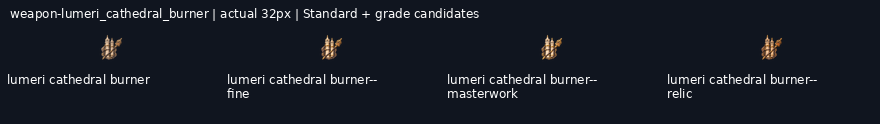
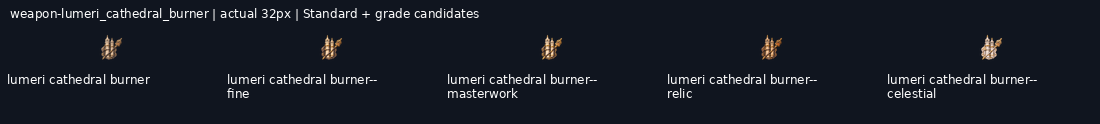
art: draw weapon-lumeri_cathedral_burner--celestial grade candidate

diff --git a/art/_archive/gear/2026-11-19-kept-blade-grades/HANDOFF.md b/art/_archive/gear/2026-11-19-kept-blade-grades/HANDOFF.md
@@ -1,6 +1,6 @@
 # Gear grade candidates
 
-**208/260 grade candidates delivered** on `art/2026-11-19-kept-blade-grades`. Shared mailbox: https://github.com/leonpentastorm/Project-Heaven-Cry/issues/3 . See claim.json for this lane’s current Standards. Released overlapping blades reuse12 peer candidates, with3 local alternatives archived.
+**209/260 grade candidates delivered** on `art/2026-11-19-kept-blade-grades`. Shared mailbox: https://github.com/leonpentastorm/Project-Heaven-Cry/issues/3 . See claim.json for this lane’s current Standards. Released overlapping blades reuse12 peer candidates, with3 local alternatives archived.
 
 Leon requested continuous candidate production; proof approval is not fabricated. All candidates remain review-candidate, production_approved:false, implementation_ready:false, with outline.review_required:true. Exact outline is measured, never asserted unless the masks match. Per-image registration is uniform scaling/translation only, without warp, silhouette masks, filled pixels or code-drawn substitutes. The generated native remains untouched.
 
@@ -10,12 +10,12 @@ Tomorrow: fetch this branch and develop safely, read the latest issue 3 comments
 
 Peer audit: [coordination/peer-audit-2026-11-19.md](coordination/peer-audit-2026-11-19.md). Peer58 masters/232 exports and12 canonical imports are integrated with versioned alpha<8 cleanup; originals are retained. See coordination/peer-import-v2/manifest.json and post-catalog VALIDATION.json (strict margins pass, solid alpha unchanged). Peer quota resets20 November2026 at09:45:39 Bangkok time; this does not establish this session’s quota.
 
-Remaining: weapon-ork_machete--masterwork, weapon-ork_machete--relic, weapon-ork_machete--celestial, weapon-war_axe--fine, weapon-war_axe--masterwork, weapon-war_axe--relic, weapon-war_axe--celestial, weapon-parlour_pistol--fine, weapon-parlour_pistol--masterwork, weapon-parlour_pistol--relic, weapon-parlour_pistol--celestial, weapon-lever_carbine--fine, weapon-lever_carbine--masterwork, weapon-lever_carbine--relic, weapon-lever_carbine--celestial, weapon-sawn_off--fine, weapon-sawn_off--masterwork, weapon-sawn_off--relic, weapon-sawn_off--celestial, weapon-coach_gun--fine, weapon-coach_gun--masterwork, weapon-coach_gun--relic, weapon-coach_gun--celestial, weapon-legion_bullpup--fine, weapon-legion_bullpup--masterwork, weapon-legion_bullpup--relic, weapon-legion_bullpup--celestial, weapon-whisper_smg--fine, weapon-whisper_smg--masterwork, weapon-whisper_smg--relic, weapon-whisper_smg--celestial, weapon-war_pick--fine, weapon-war_pick--masterwork, weapon-war_pick--relic, weapon-war_pick--celestial, weapon-war_hammer--fine, weapon-war_hammer--masterwork, weapon-war_hammer--relic, weapon-war_hammer--celestial, weapon-short_bow--fine, weapon-short_bow--masterwork, weapon-short_bow--relic, weapon-short_bow--celestial, weapon-lumeri_cathedral_burner--celestial, weapon-whisper_pistol--fine, weapon-whisper_pistol--masterwork, weapon-whisper_pistol--relic, weapon-whisper_pistol--celestial, weapon-whisper_carbine--fine, weapon-whisper_carbine--masterwork, weapon-whisper_carbine--relic, weapon-whisper_carbine--celestial.
+Remaining: weapon-ork_machete--masterwork, weapon-ork_machete--relic, weapon-ork_machete--celestial, weapon-war_axe--fine, weapon-war_axe--masterwork, weapon-war_axe--relic, weapon-war_axe--celestial, weapon-parlour_pistol--fine, weapon-parlour_pistol--masterwork, weapon-parlour_pistol--relic, weapon-parlour_pistol--celestial, weapon-lever_carbine--fine, weapon-lever_carbine--masterwork, weapon-lever_carbine--relic, weapon-lever_carbine--celestial, weapon-sawn_off--fine, weapon-sawn_off--masterwork, weapon-sawn_off--relic, weapon-sawn_off--celestial, weapon-coach_gun--fine, weapon-coach_gun--masterwork, weapon-coach_gun--relic, weapon-coach_gun--celestial, weapon-legion_bullpup--fine, weapon-legion_bullpup--masterwork, weapon-legion_bullpup--relic, weapon-legion_bullpup--celestial, weapon-whisper_smg--fine, weapon-whisper_smg--masterwork, weapon-whisper_smg--relic, weapon-whisper_smg--celestial, weapon-war_pick--fine, weapon-war_pick--masterwork, weapon-war_pick--relic, weapon-war_pick--celestial, weapon-war_hammer--fine, weapon-war_hammer--masterwork, weapon-war_hammer--relic, weapon-war_hammer--celestial, weapon-short_bow--fine, weapon-short_bow--masterwork, weapon-short_bow--relic, weapon-short_bow--celestial, weapon-whisper_pistol--fine, weapon-whisper_pistol--masterwork, weapon-whisper_pistol--relic, weapon-whisper_pistol--celestial, weapon-whisper_carbine--fine, weapon-whisper_carbine--masterwork, weapon-whisper_carbine--relic, weapon-whisper_carbine--celestial.
 
 Service-rejected requests (do not repeatedly resubmit): weapon-coach_gun--fine, weapon-legion_bullpup--fine, weapon-lever_carbine--fine, weapon-ork_machete--masterwork, weapon-parlour_pistol--fine, weapon-sawn_off--fine, weapon-short_bow--fine, weapon-war_axe--fine, weapon-war_hammer--fine, weapon-war_pick--fine, weapon-whisper_smg--fine.
 
 Waiting on rejected prerequisites: weapon-coach_gun--celestial, weapon-coach_gun--masterwork, weapon-coach_gun--relic, weapon-legion_bullpup--celestial, weapon-legion_bullpup--masterwork, weapon-legion_bullpup--relic, weapon-lever_carbine--celestial, weapon-lever_carbine--masterwork, weapon-lever_carbine--relic, weapon-ork_machete--celestial, weapon-ork_machete--relic, weapon-parlour_pistol--celestial, weapon-parlour_pistol--masterwork, weapon-parlour_pistol--relic, weapon-sawn_off--celestial, weapon-sawn_off--masterwork, weapon-sawn_off--relic, weapon-short_bow--celestial, weapon-short_bow--masterwork, weapon-short_bow--relic, weapon-war_axe--celestial, weapon-war_axe--masterwork, weapon-war_axe--relic, weapon-war_hammer--celestial, weapon-war_hammer--masterwork, weapon-war_hammer--relic, weapon-war_pick--celestial, weapon-war_pick--masterwork, weapon-war_pick--relic, weapon-whisper_smg--celestial, weapon-whisper_smg--masterwork, weapon-whisper_smg--relic.
 
-Ready independent next steps, in queue order: weapon-lumeri_cathedral_burner--celestial, weapon-whisper_pistol--fine, weapon-whisper_carbine--fine. Other pending grades follow their preceding grade.
+Ready independent next steps, in queue order: weapon-whisper_pistol--fine, weapon-whisper_carbine--fine. Other pending grades follow their preceding grade.
 
 Runtime handoff: implementation_ready:false records review status but does not gate the web asset builder. The builder emits grade asset keys; the current UI gear resolver still needs grade-aware selection. Do not claim that runtime grade selection is implemented by these art deliveries.
